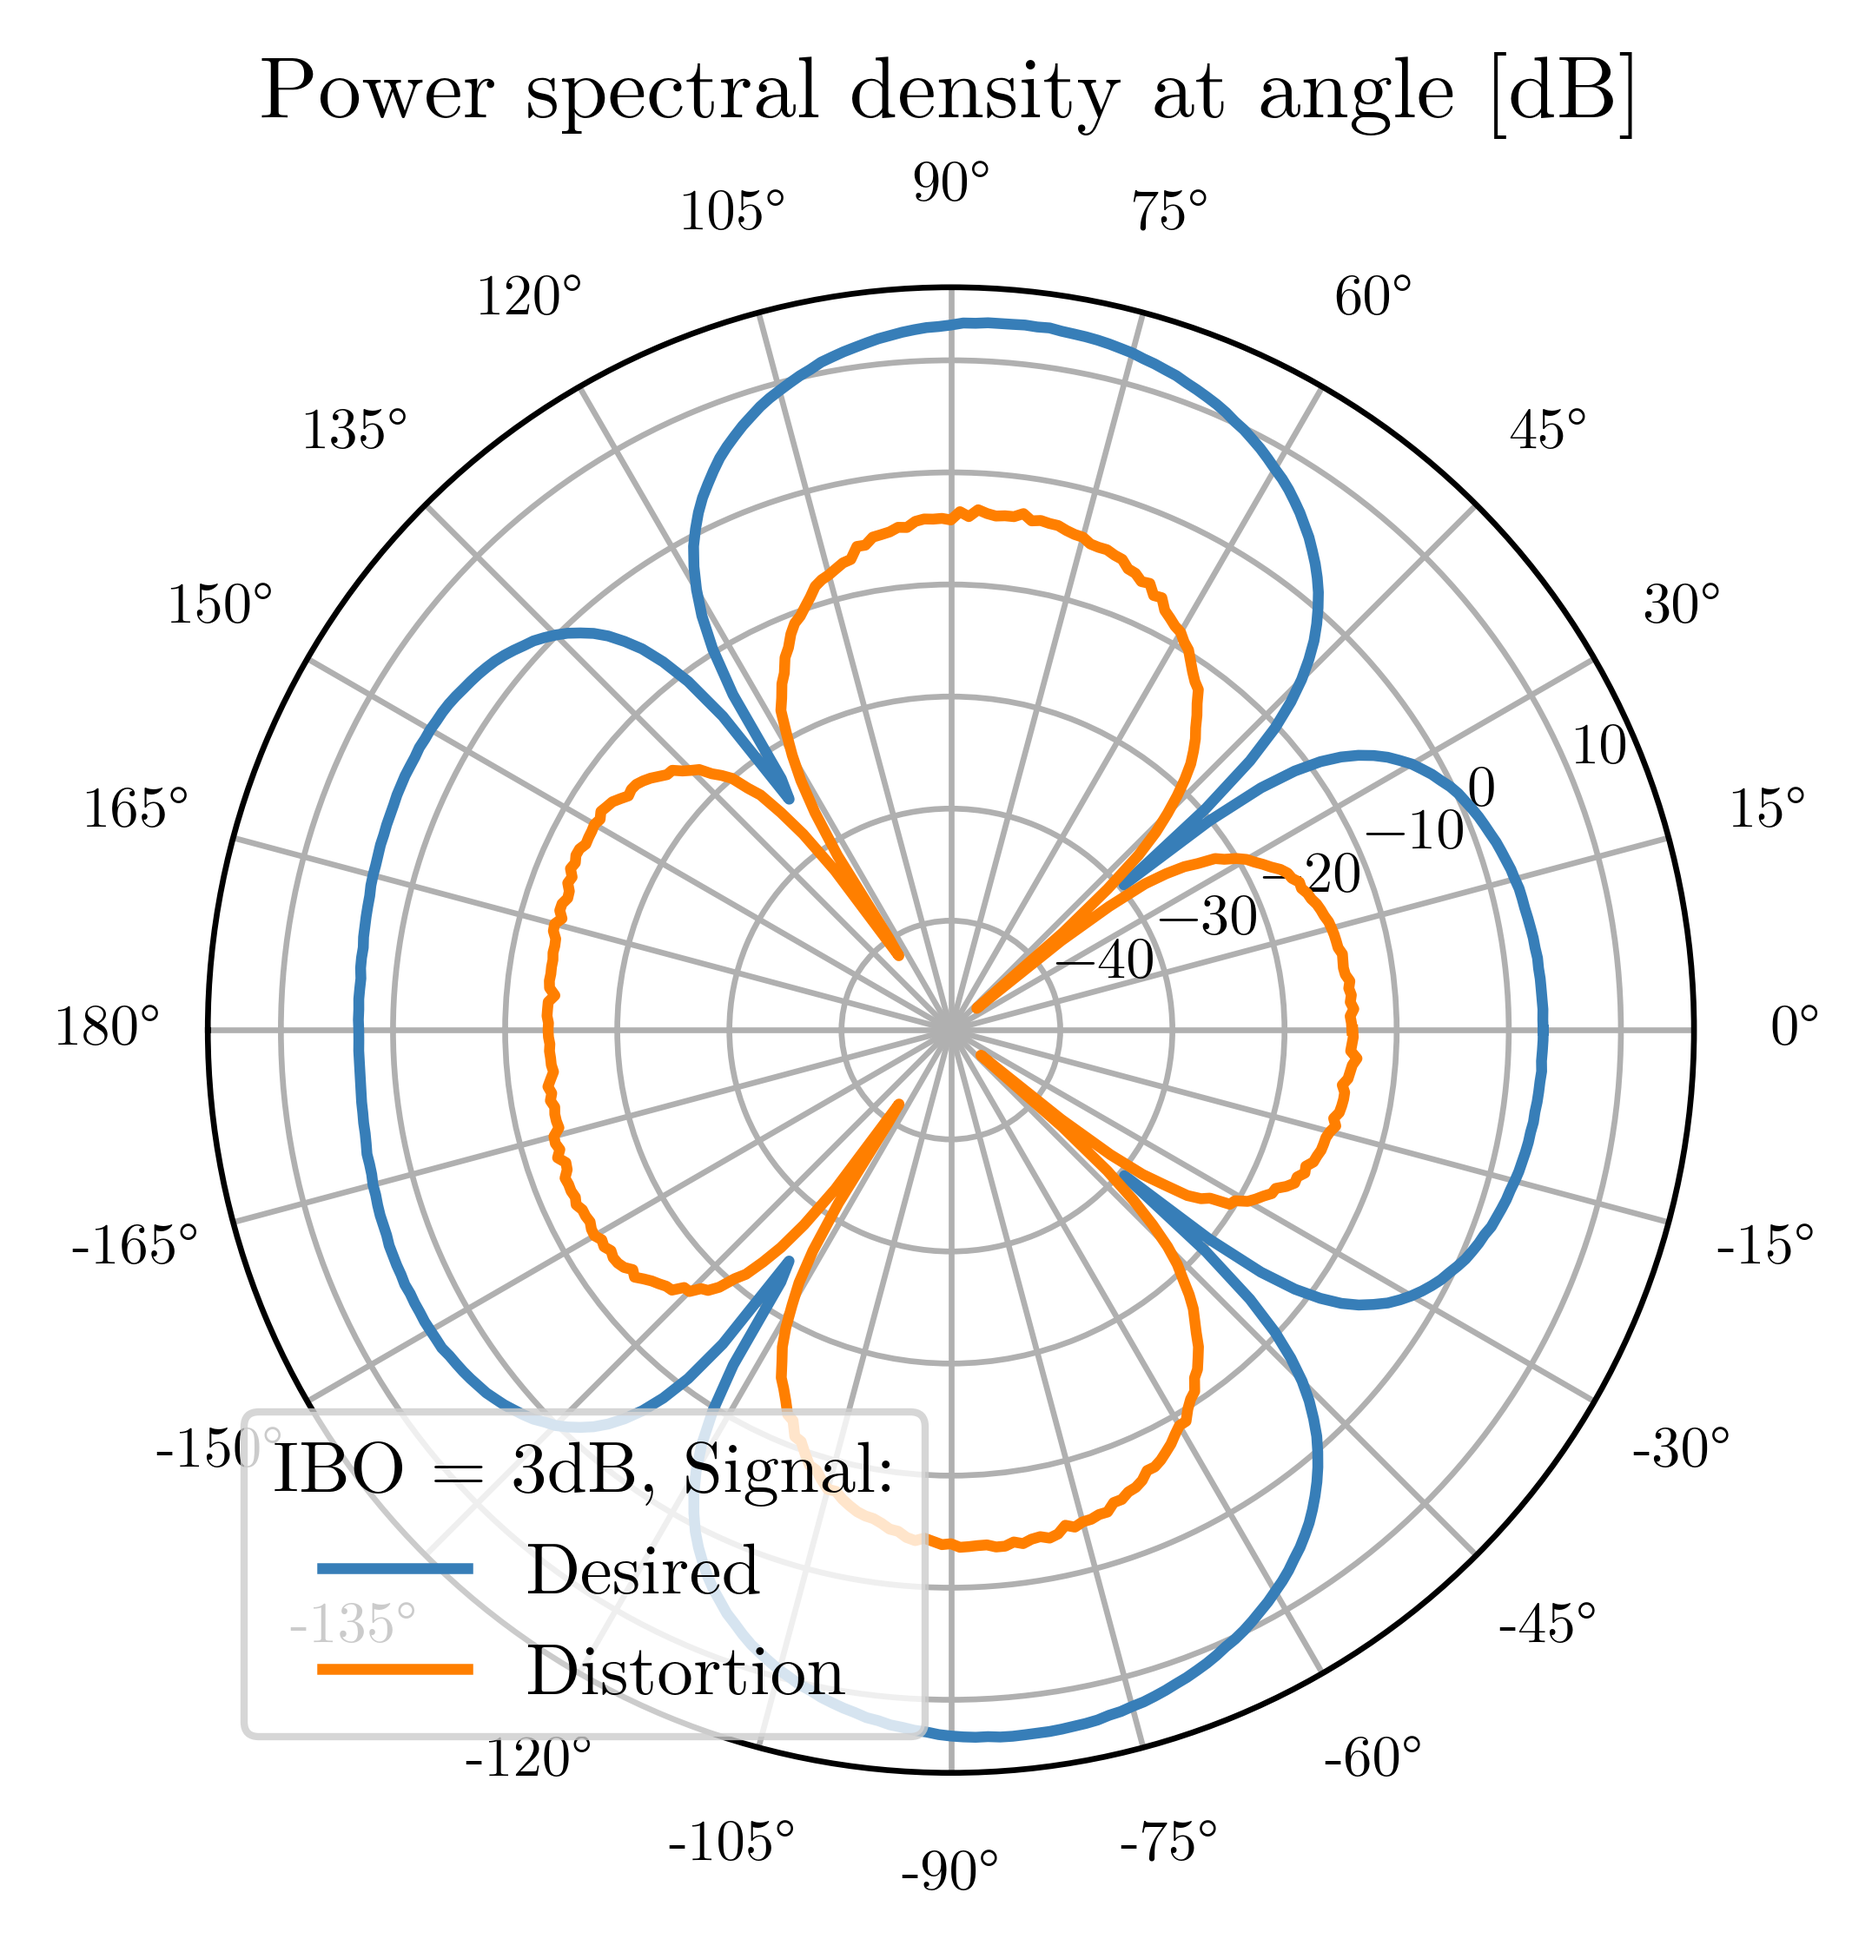
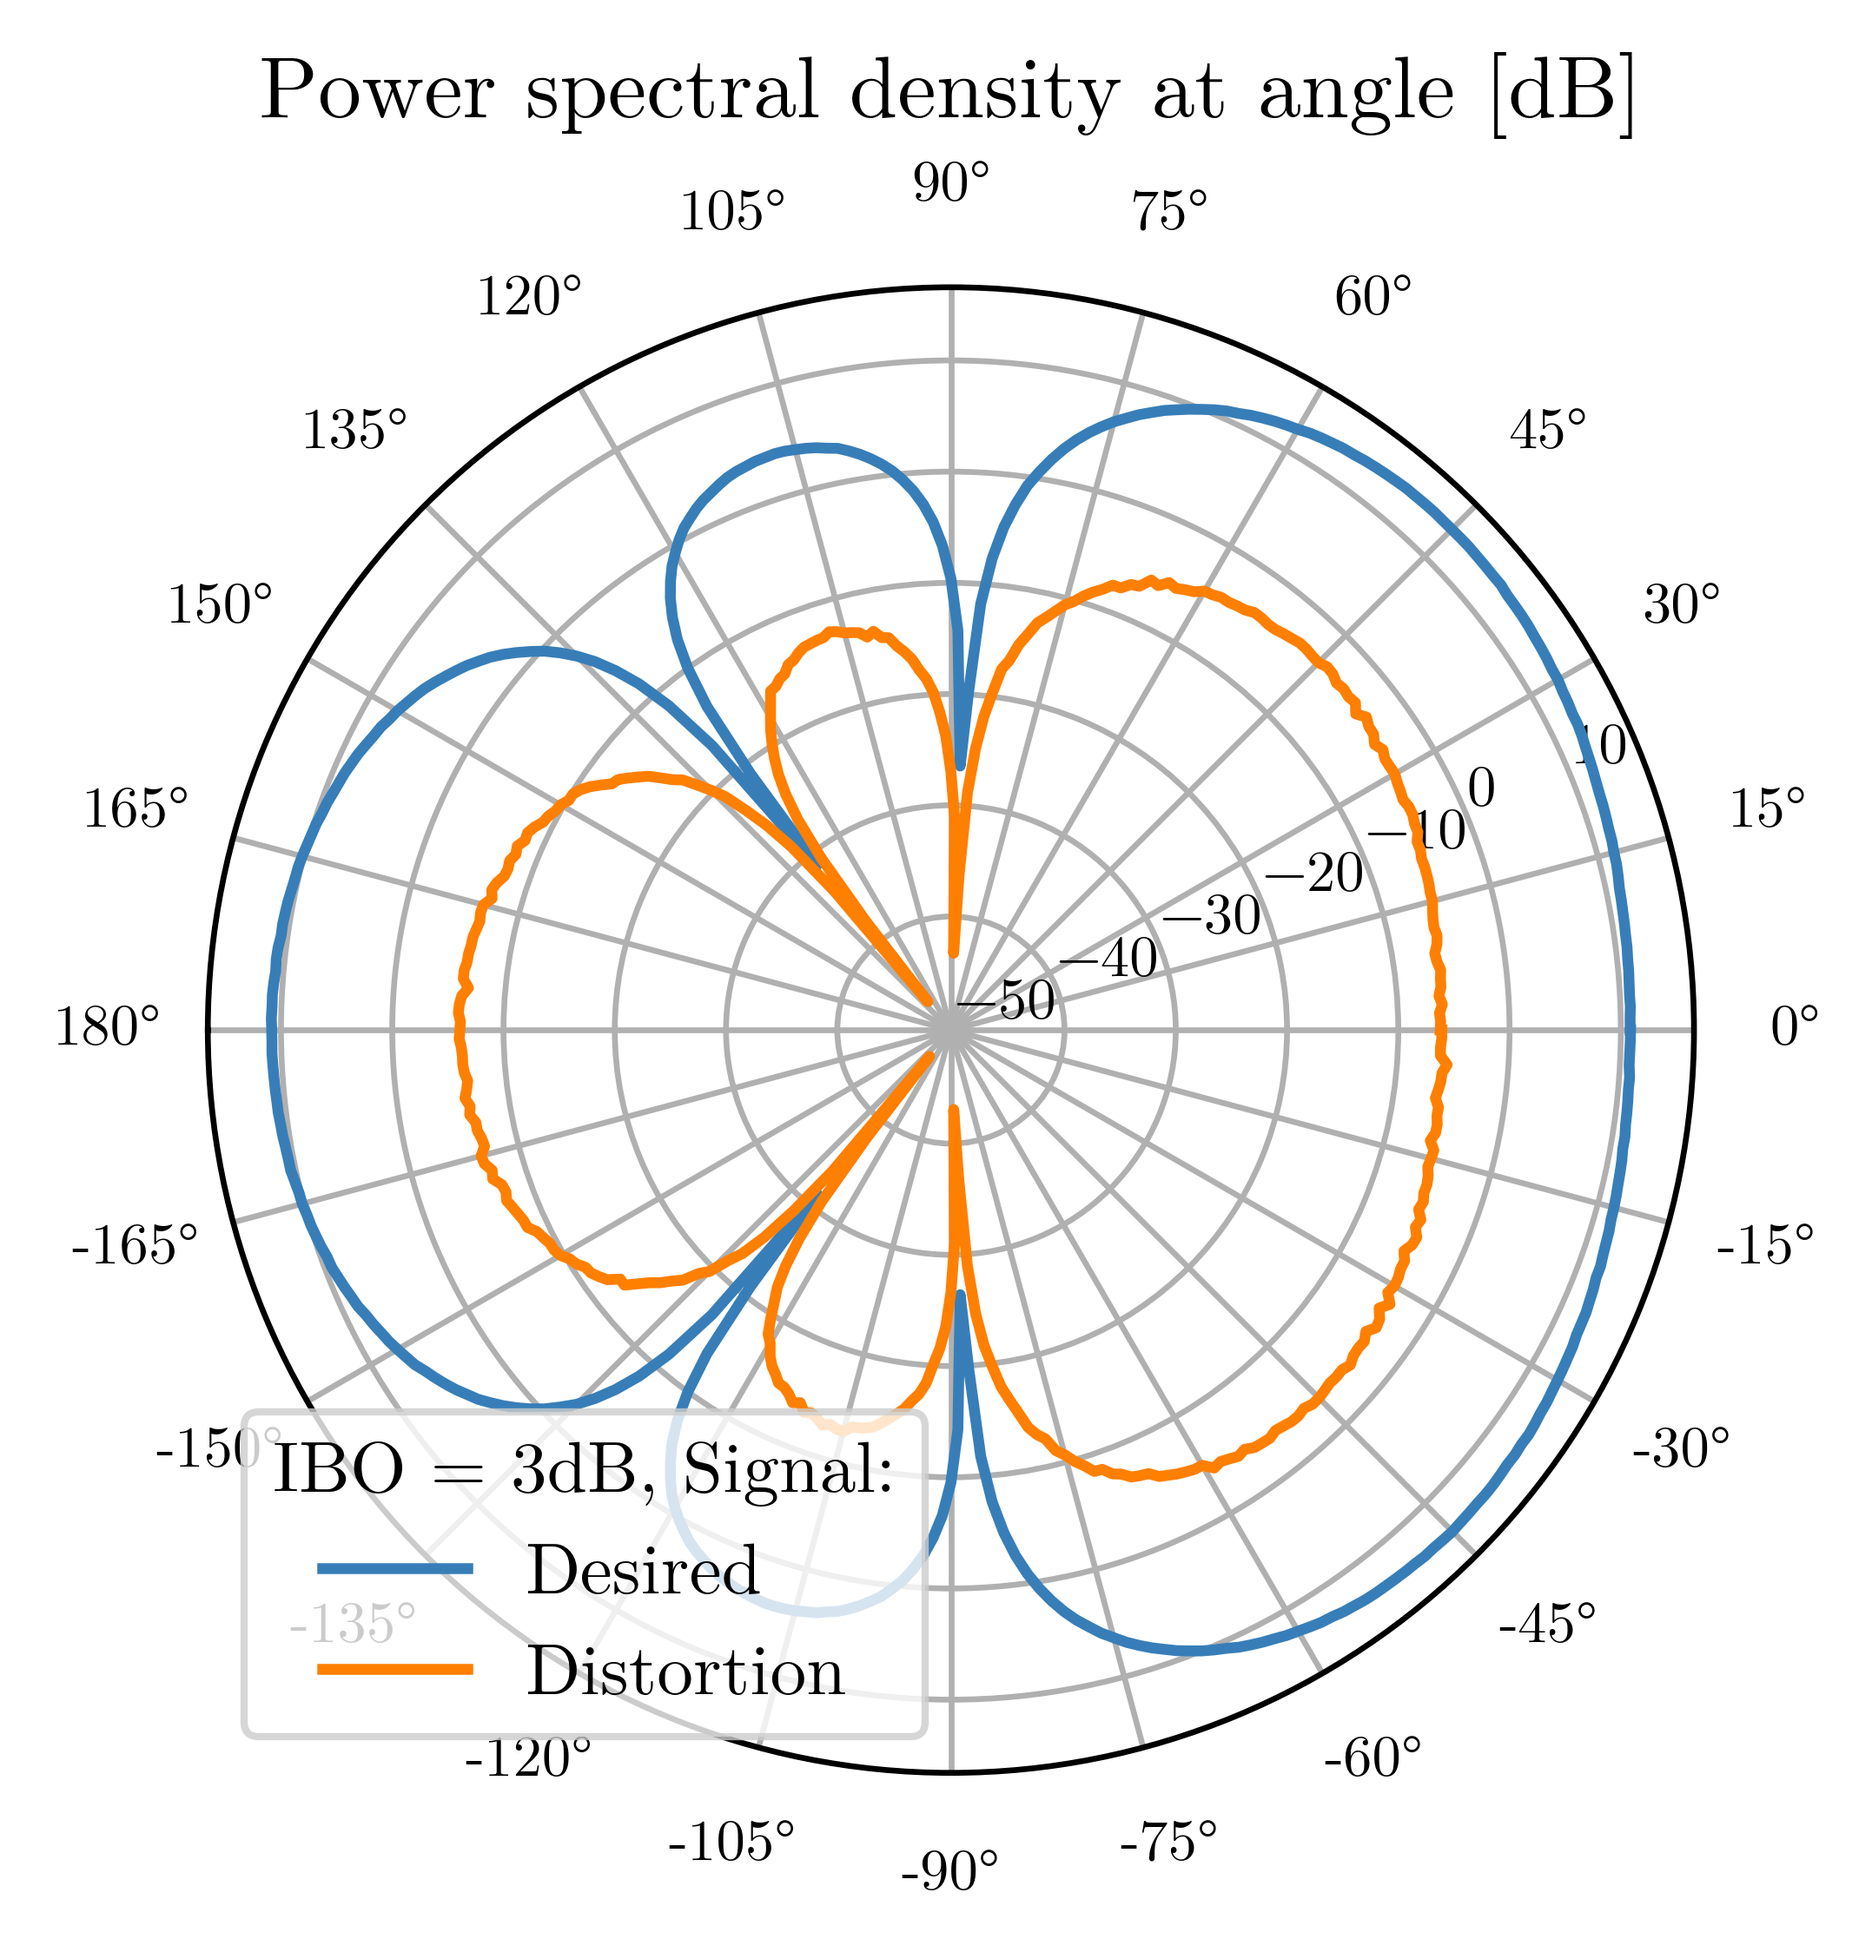
Fixed channel phase shift of FFT signal

diff --git a/main_mrt_precoding.py b/main_mrt_precoding.py
@@ -12,6 +12,7 @@ import modulation
 import impairments
 import transceiver
 import antenna_arrray
+import torch
 
 from plot_settings import set_latex_plot_style
 
@@ -30,7 +31,7 @@ ibo_db = 3
 my_distortion = impairments.SoftLimiter(ibo_db=ibo_db, avg_symb_pow=my_mod.ofdm_avg_sample_pow())
 my_tx = transceiver.Transceiver(modem=my_mod, impairment=my_distortion, center_freq=3.5e9, carrier_spacing=15e3)
 my_array = antenna_arrray.LinearArray(n_elements=3, transceiver=my_tx, center_freq=3.5e9, wav_len_spacing=0.5)
-my_rx = transceiver.Transceiver(modem=my_mod,  impairment=None, cord_x=10, cord_y=100)
+my_rx = transceiver.Transceiver(modem=my_mod,  impairment=None, cord_x=100, cord_y=100)
 
 #if run_idx == 0:
 my_array.set_precoding_single_point(rx_transceiver=my_rx, exact=True)
@@ -41,8 +42,8 @@ my_array.set_precoding_single_point(rx_transceiver=my_rx, exact=True)
 # print(my_array.array_elements[1].modem.precoding_vec)
 # print(my_array.array_elements[2].modem.precoding_vec)
 
-my_array.plot_configuration(plot_3d=True)
-utilities.plot_configuration(my_array, my_rx)
+# my_array.plot_configuration(plot_3d=True)
+# utilities.plot_configuration(my_array, my_rx)
 
 my_miso_chan = channels.AwgnMisoPhysical(n_inputs=3, snr_db=10, is_complex=True)
 
@@ -65,20 +66,31 @@ n_samp_per_seg = 512
 n_snapshots = 10
 
 #%%
+#chosen point idx
+point_idx_psd = 93
+rx_sig_at_point_accum = []
 
 for pt_idx, point in enumerate(rx_points):
     (x_cord, y_cord) = point
     my_rx.set_position(cord_x=x_cord, cord_y=y_cord, cord_z=0)
     rx_sig_accum = []
-    clean_rx_sig_accum=[]
+    clean_rx_sig_accum = []
     for snap_idx in range(n_snapshots):
 
         tx_bits = bit_rng.choice((0, 1), my_tx.modem.n_bits_per_ofdm_sym)
         arr_tx_sig, clean_sig_mat = my_array.transmit(in_bits=tx_bits, return_both=True)
+
         rx_sig = my_miso_chan.propagate(tx_transceivers=my_array.array_elements, rx_transceiver=my_rx,
                                         in_sig_mat=arr_tx_sig, skip_noise=True)
+        rx_sig = torch.fft.ifft(torch.from_numpy(rx_sig), norm="ortho").numpy()
+
         clean_rx_sig = my_miso_chan.propagate(tx_transceivers=my_array.array_elements, rx_transceiver=my_rx,
                                         in_sig_mat=clean_sig_mat, skip_noise=True)
+        clean_rx_sig = torch.fft.ifft(torch.from_numpy(clean_rx_sig), norm="ortho").numpy()
+
+
+        if pt_idx == point_idx_psd:
+            rx_sig_at_point_accum.append(rx_sig)
 
         rx_sig_accum.append(rx_sig)
         clean_rx_sig_accum.append(clean_rx_sig)
@@ -100,6 +112,9 @@ for pt_idx, point in enumerate(rx_points):
     psd_at_angle_desired[pt_idx] = to_db(np.sum(np.array(clean_rx_sig_psd_arr)))
     psd_at_angle_dist[pt_idx] = to_db(np.sum(np.array(dist_rx_sig_psd_arr)))
 
+rx_sig_at_point_accum_arr = np.concatenate(rx_sig_at_point_accum).ravel()
+rx_sig_at_point_freq_arr, rx_sig_at_point_psd = welch(rx_sig_at_point_accum_arr, fs=psd_nfft, nfft=psd_nfft,
+                                                    nperseg=n_samp_per_seg, return_onesided=False)
 
 psd_at_angle_lst.append(psd_at_angle_desired)
 psd_at_angle_lst.append(psd_at_angle_dist)
@@ -129,16 +144,18 @@ plt.show()
 
 print("Finished processing!")
 
-# fig1, ax1 = plt.subplots(1, 1)
-# ax1.plot(rx_sig_freq, rx_sig_psd, label="Test")
-# ax1.set_title("Power spectral density")
-# ax1.set_xlabel("Subcarrier index [-]")
-# ax1.set_ylabel("Power [dB]")
-# ax1.legend(title="IBO [dB]")
-# ax1.grid()
-# plt.tight_layout()
-# #plt.savefig("figs/psd_toi.pdf", dpi=600, bbox_inches='tight')
-# plt.show()
+#%%
+fig1, ax1 = plt.subplots(1, 1)
+sorted_rx_at_point_freq_arr, sorted_psd_at_point_arr = zip(*sorted(zip(rx_sig_at_point_freq_arr, rx_sig_at_point_psd)))
+ax1.plot(np.array(sorted_rx_at_point_freq_arr), to_db(np.array(sorted_psd_at_point_arr)), label="At point idx: %d" % point_idx_psd)
+ax1.set_title("Power spectral density")
+ax1.set_xlabel("Subcarrier index [-]")
+ax1.set_ylabel("Power [dB]")
+ax1.legend(title="IBO = 3 dB")
+ax1.grid()
+plt.tight_layout()
+plt.savefig("figs/psd_at_point.png", dpi=600, bbox_inches='tight')
+plt.show()
 
 
 

diff --git a/channels.py b/channels.py
@@ -92,11 +92,11 @@ class AwgnMisoPhysical:
     def propagate(self, tx_transceivers, rx_transceiver, in_sig_mat, skip_noise=False):
         # channel in frequency domain
         # remove cp from in sig matrix
-        no_cp_sig_mat = in_sig_mat[:, tx_transceivers[0].modem.cp_len:]
+        no_cp_td_sig_mat = in_sig_mat[:, tx_transceivers[0].modem.cp_len:]
         # perform fft row wise
-        freq_sig_mat = torch.fft.fft(torch.from_numpy(no_cp_sig_mat), norm="ortho").numpy()
+        no_cp_fd_sig_mat = torch.fft.fft(torch.from_numpy(no_cp_td_sig_mat), norm="ortho").numpy()
         # for each tx get distance
-        ph_shift_mat = np.empty(no_cp_sig_mat.shape, dtype=np.complex128)
+        td_ph_shift_mat = np.empty(no_cp_td_sig_mat.shape, dtype=np.complex128)
         for idx, tx_transceiver in enumerate(tx_transceivers):
             tx_rx_distance = np.sqrt(np.power(tx_transceiver.cord_x - rx_transceiver.cord_x, 2) + np.power(
                 tx_transceiver.cord_y - rx_transceiver.cord_y, 2) + np.power(
@@ -104,9 +104,12 @@ class AwgnMisoPhysical:
             sig_freq_vals = torch.fft.fftfreq(tx_transceivers[idx].modem.n_fft,
                                               d=1 / tx_transceivers[idx].modem.n_fft).numpy() * tx_transceivers[
                                 idx].carrier_spacing + tx_transceivers[idx].center_freq
-            ph_shift_mat[idx, :] = np.exp(2j * np.pi * tx_rx_distance * sig_freq_vals / scp.constants.c)
+            td_ph_shift_mat[idx, :] = np.exp(2j * np.pi * tx_rx_distance * sig_freq_vals / scp.constants.c)
 
-        sig_at_point_mat = np.multiply(no_cp_sig_mat, ph_shift_mat)
+        fd_ph_shift_mat = torch.fft.fft(torch.from_numpy(td_ph_shift_mat), norm="ortho").numpy()
+        # normalize not to introduce attenuation
+        fd_ph_shift_mat = fd_ph_shift_mat / np.abs(fd_ph_shift_mat)
+        sig_at_point_mat = np.multiply(no_cp_fd_sig_mat, fd_ph_shift_mat)
         # TODO: add noise
         # sum columns
         return np.sum(sig_at_point_mat, axis=0)
